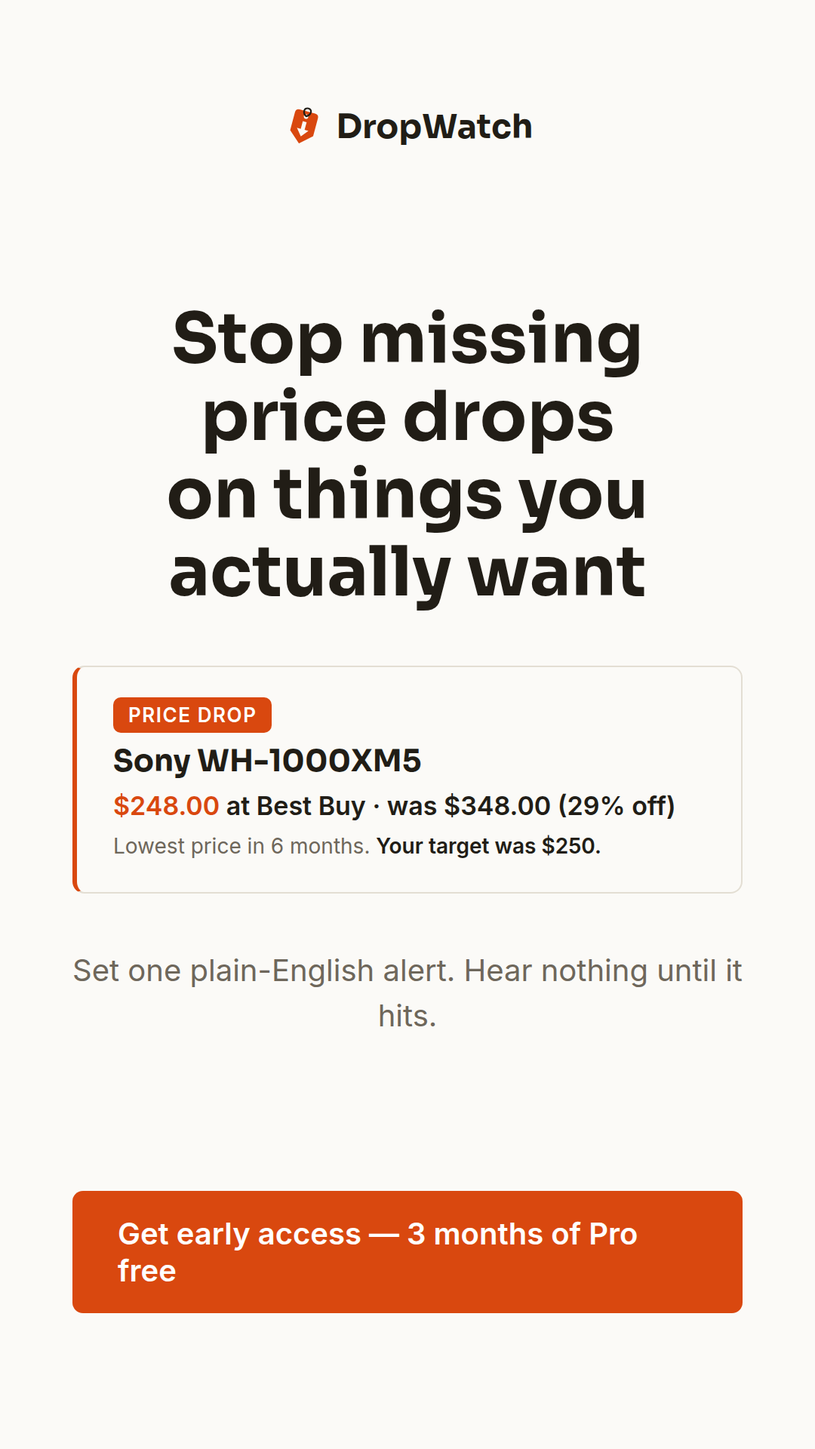
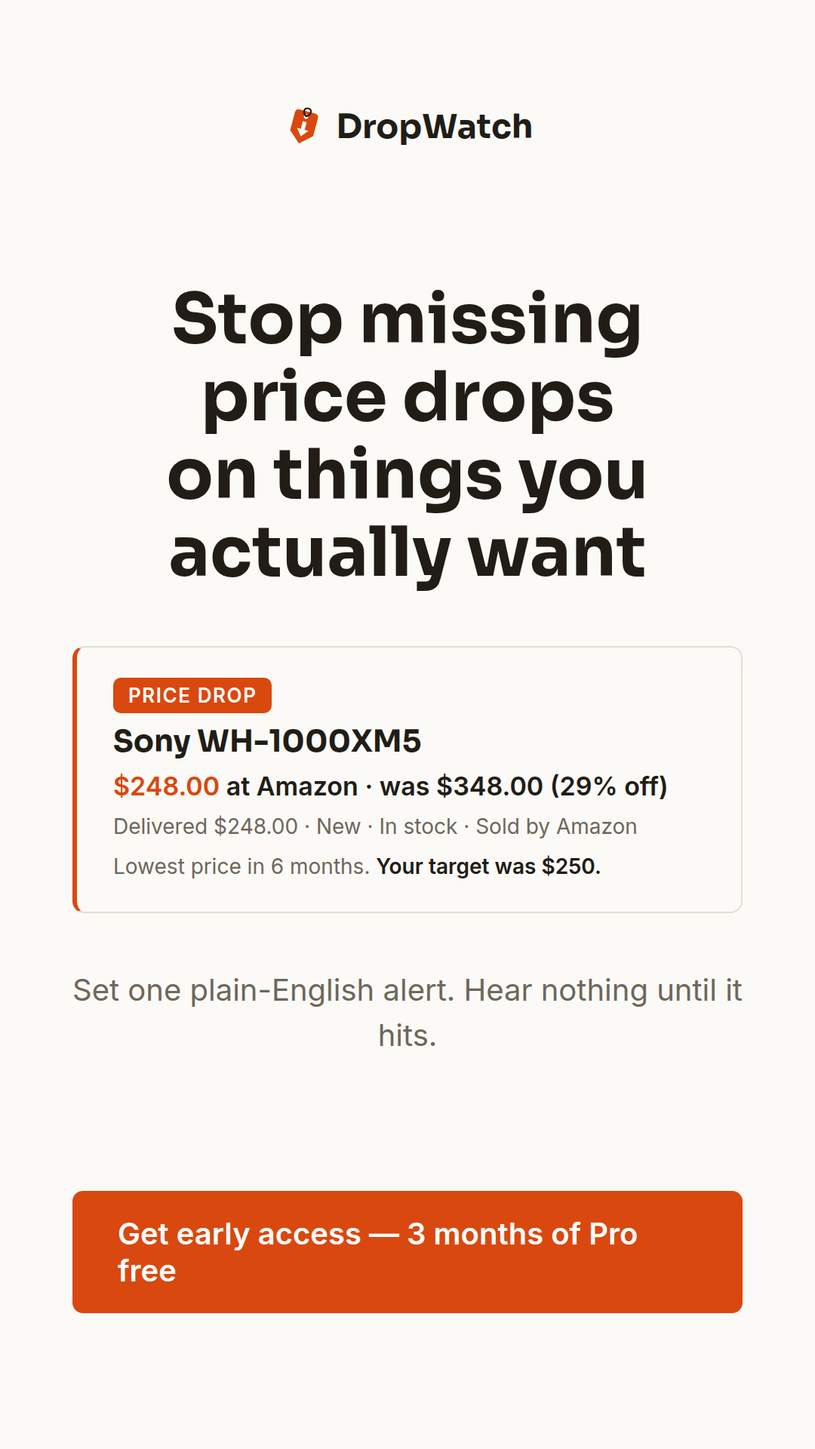
Rewrite the landing page for the ratified pivot; spend the one copy iteration
Four founder decisions, taken 2026-09-01 and recorded in decisions.md:

1. The trust-evidence pivot is ratified. 00-brief.md gains a dated addendum
   that supersedes its conflicting lines rather than rewriting the original.
2. Basic-tier clicks keep counting toward the payment-intent threshold as it
   was written.
3. The landing page takes Path B: honesty corrections plus the pivoted promise.
4. Pro Plus is $99/year.

What the page now says, and why each change is true of the built app:

- Hero and meta description: "one message when it really drops: delivered
  price, condition, in stock" replaces "the second it drops". The app checks
  every six hours; "instant" was false.
- Benefits: "One alert, every supported store" names Amazon, eBay and Google
  Shopping's merchants, which is what priceSources.ts searches. "Know if it's
  really a deal" now describes the trust evidence rather than price history
  alone.
- How it works: no store menus (the user never picks a store), "every few
  hours", and an alert that carries delivered cost, seller and condition.
- Demo: the typed sentence drops "at Amazon or Best Buy" (Best Buy is not a
  source; the user does not pick stores). The alert card gains an evidence
  line - delivered price, New, In stock, Sold by Amazon, Seen 20 min ago -
  which is the pivot in one line, and the deal read distinguishes a retailer
  sale from a marketplace refurb.
- Tiers: Basic loses "1 store per alert" (there is no store selection); Pro
[…]

diff --git a/src/App.tsx b/src/App.tsx
@@ -22,13 +22,13 @@ const BENEFITS = [
   },
   {
     icon: <StorefrontsIcon />,
-    title: "Watch every store at once.",
-    body: "One alert covers Amazon, Best Buy, and more — no tab-hopping.",
+    title: "One alert, every supported store.",
+    body: "DropWatch searches Amazon, eBay, and the merchants on Google Shopping for you — no picking stores, no tab-hopping.",
   },
   {
     icon: <DipChartIcon />,
     title: "Know if it's really a deal.",
-    body: "Price history shows whether $248 is a genuine low or a fake markdown.",
+    body: "Every alert shows the delivered price, the condition, whether it's in stock, and how the price compares to its history — so a used unit with $40 shipping never reaches you as a \"deal.\"",
   },
   {
     icon: <TargetArrowIcon />,
@@ -53,7 +53,11 @@ const TIERS = [
     price: "Free",
     priceNote: "",
     best: "Best for: trying DropWatch on the one thing you're waiting on.",
-    features: ["3 active alerts", "1 store per alert", "Daily price checks", "Email alerts"],
+    features: [
+      "3 active alerts",
+      "Daily checks across all supported stores",
+      "Email alerts with condition and stock status",
+    ],
     recommended: false,
   },
   {
@@ -63,22 +67,22 @@ const TIERS = [
     best: "Best for: anyone with a real wishlist across more than one store.",
     features: [
       "Unlimited alerts",
-      "All supported stores per alert",
-      "Instant alerts the moment a price crosses your line",
+      "Checks every 6 hours, not once a day",
+      "Delivered-price alerts — shipping and tax counted, never guessed",
       "Full price history and deal-quality reads",
     ],
     recommended: true,
   },
   {
     name: "Pro Plus",
-    price: "$129",
+    price: "$99",
     priceNote: "/year",
-    best: "Best for: heavy shoppers who want first access and fast answers.",
+    best: "Best for: anyone who's already sure — two months free.",
     features: [
       "Everything in Pro",
+      "Two months free vs. paying monthly",
       "Priority support",
       "Early access to new stores and features",
-      "Higher alert-check frequency",
     ],
     recommended: false,
   },
@@ -91,7 +95,7 @@ const FAQS = [
   },
   {
     q: "Why would I pay when Honey and CamelCamelCamel are free?",
-    a: "Free tools make money from ads and affiliate volume, so they're built to show you more deals, not fewer. DropWatch is built for the opposite: one alert for one exact thing. You're paying for silence and precision.",
+    a: "Free tools make money from ads and affiliate volume, so they're built to show you more deals, not fewer. DropWatch is built for the opposite: one alert for one exact thing — and it checks the deal is real (new, in stock, delivered price) before it tells you. You're paying for silence and precision.",
   },
   {
     q: "Do I have to connect my Amazon or store accounts?",
@@ -99,11 +103,19 @@ const FAQS = [
   },
   {
     q: "How long does setup take?",
-    a: 'About as long as sending a text. Type "Patagonia Nano Puff, 40% off, any store" and you\'re done. Most people set up their first three alerts in under two minutes.',
+    a: 'About as long as sending a text. Type "Patagonia Nano Puff, 40% off, new" and you\'re done — DropWatch finds the stores. Most people set up their first three alerts in under two minutes.',
   },
   {
     q: "Which stores will it cover?",
-    a: "At launch: Amazon and Best Buy. Founding users vote on what comes next — Target, Walmart, and more are on the ballot, and early-access signups decide the order.",
+    a: "At launch: Amazon, eBay, and the merchants listed on Google Shopping — DropWatch searches them all for you, so you never pick a store. Founding users vote on which dedicated store integrations come next; Best Buy, Target, and Walmart are on the ballot, and early-access signups decide the order.",
+  },
+  {
+    q: "How do I know the deal is real?",
+    a: "Every alert shows what DropWatch actually found: the delivered price with shipping and tax when the store publishes them (and \"unknown\" when it doesn't — never a silent $0), whether it's new or used, whether it's in stock, who's selling it, and when the price was last seen. Used, refurbished, and open-box listings are left out unless you ask for them.",
+  },
+  {
+    q: "How fast are alerts?",
+    a: "DropWatch checks every supported store every six hours (once a day on the free plan) and emails you the same hour a price crosses your line. It's built for the drops that last days, not the flash sales that last minutes — those are the ones that make you check your phone all day.",
   },
   {
     q: "Will you spam me?",
@@ -186,8 +198,9 @@ export default function App() {
               </Reveal>
               <Reveal delay={60}>
                 <p className="hero__sub">
-                  For busy people who shop online but can't babysit prices — set one alert, get
-                  pinged the second it drops.
+                  For busy people who shop online but can't babysit prices — set one alert in
+                  plain English and get one message when it really drops: delivered price,
+                  condition, in stock. No noise.
                 </p>
               </Reveal>
               <Reveal delay={120}>
@@ -195,8 +208,8 @@ export default function App() {
               </Reveal>
               <Reveal delay={180}>
                 <p className="hero__credibility small">
-                  The deals worth waiting for usually last hours, not days — and they drop while
-                  you're at work.
+                  Most "deals" aren't: a used unit, surprise shipping, out of stock by the time
+                  you click. DropWatch checks before it tells you.
                 </p>
               </Reveal>
             </div>
@@ -217,6 +230,7 @@ export default function App() {
                 "Your wishlist is a graveyard. You saved that laptop three weeks ago, the price dropped 30% on a Tuesday, and it was back up by Thursday.",
                 "Deal apps and coupon extensions bury the one thing you want under two hundred things you don't.",
                 "Checking prices across Amazon, Target, and Best Buy is a part-time job you didn't apply for.",
+                "And when a \"deal\" finally shows up, it's a refurbished unit from a third-party seller, plus $40 shipping.",
                 "So you either overpay out of impatience, or wait forever and miss the window anyway.",
               ].map((line, i) => (
                 <Reveal as="li" key={i} delay={i * 60}>
@@ -237,15 +251,15 @@ export default function App() {
               {[
                 {
                   title: "Say what you want, in plain English.",
-                  body: 'Type "AirPods Pro under $200" and DropWatch turns it into a tracked alert — product, stores, and target price, no forms to fill.',
+                  body: 'Type "AirPods Pro under $200" and DropWatch turns it into a tracked alert — product and target price, no forms, no store menus.',
                 },
                 {
                   title: "DropWatch watches so you don't.",
-                  body: 'Your alerts sit quietly across the stores you picked. No feed, no digest, no daily "hot deals" email.',
+                  body: 'DropWatch checks every supported store for you, every few hours. No feed, no digest, no daily "hot deals" email.',
                 },
                 {
                   title: "Get one alert when it actually drops.",
-                  body: "The moment your price hits, you get a single notification with the price, the store, and a read on whether it's a real deal.",
+                  body: "When your price hits, you get one email with the price, the delivered cost, the seller and condition, and a read on whether it's a real deal — or a used unit with $40 shipping.",
                 },
               ].map((step, i) => (
                 <Reveal className="step" key={i} delay={i * 60}>
@@ -272,8 +286,7 @@ export default function App() {
               <Reveal className="demo__card demo__card--you">
                 <div className="demo__label">You type this once</div>
                 <p className="demo__bubble">
-                  Sony WH-1000XM5 headphones — tell me if they drop under $250 at Amazon or Best
-                  Buy.
+                  Sony WH-1000XM5 headphones — tell me when they're under $250, new, delivered.
                 </p>
               </Reveal>
               <Reveal className="demo__card demo__card--alert" delay={80}>
@@ -281,11 +294,16 @@ export default function App() {
                 <div className="notif">
                   <div className="notif__title">PRICE DROP — Sony WH-1000XM5</div>
                   <p className="notif__price">
-                    <strong>$248.00</strong> at Best Buy · was $348.00 (29% off)
+                    <strong>$248.00</strong> at Amazon · was $348.00 (29% off)
+                  </p>
+                  <p className="notif__evidence small">
+                    Delivered $248.00 (free shipping, tax est.) · New · In stock · Sold by Amazon ·
+                    Seen 20 min ago
                   </p>
                   <p>Lowest price in 6 months. Your target was $250.</p>
                   <p className="notif__read">
-                    Deal read: Below its Black Friday price. This is the buy window.
+                    Deal read: Below its Black Friday price, new from the retailer itself — not a
+                    refurb from a marketplace seller. This is the buy window.
                   </p>
                   <div className="notif__actions" aria-hidden="true">
                     <span className="btn btn--primary">View deal</span>

diff --git a/index.html b/index.html
@@ -6,7 +6,7 @@
     <title>DropWatch — Stop Missing Price Drops on Things You Want</title>
     <meta
       name="description"
-      content="For busy people who shop online but can't babysit prices — set one plain-English alert and get pinged the second it drops. Early access + 3 months of Pro free."
+      content="For busy people who shop online but can't babysit prices — set one plain-English alert and get one message when it really drops: delivered price, condition, in stock. Early access + 3 months of Pro free."
     />
     <link rel="icon" type="image/svg+xml" href="/logo.svg" />
     <meta property="og:type" content="website" />
@@ -14,7 +14,7 @@
     <meta property="og:title" content="DropWatch — Stop Missing Price Drops on Things You Want" />
     <meta
       property="og:description"
-      content="For busy people who shop online but can't babysit prices — set one plain-English alert and get pinged the second it drops. Early access + 3 months of Pro free."
+      content="For busy people who shop online but can't babysit prices — set one plain-English alert and get one message when it really drops: delivered price, condition, in stock. Early access + 3 months of Pro free."
     />
     <link rel="canonical" href="https://www.usedropwatch.com/" />
     <meta property="og:url" content="https://www.usedropwatch.com/" />
@@ -23,7 +23,7 @@
     <meta name="twitter:title" content="DropWatch — Stop Missing Price Drops on Things You Want" />
     <meta
       name="twitter:description"
-      content="For busy people who shop online but can't babysit prices — set one plain-English alert and get pinged the second it drops. Early access + 3 months of Pro free."
+      content="For busy people who shop online but can't babysit prices — set one plain-English alert and get one message when it really drops: delivered price, condition, in stock. Early access + 3 months of Pro free."
     />
     <meta name="twitter:image" content="https://www.usedropwatch.com/og.png" />
     <link rel="preconnect" href="https://fonts.googleapis.com" />

diff --git a/marketing/ads/src/ad-a-story.html b/marketing/ads/src/ad-a-story.html
@@ -22,7 +22,8 @@
     <div class="notif">
       <div class="notif__badge">PRICE DROP</div>
       <div class="notif__title">Sony WH-1000XM5</div>
-      <div class="notif__price"><strong>$248.00</strong> at Best Buy · was $348.00 (29% off)</div>
+      <div class="notif__price"><strong>$248.00</strong> at Amazon · was $348.00 (29% off)</div>
+      <div class="notif__meta">Delivered $248.00 · New · In stock · Sold by Amazon</div>
       <div class="notif__meta">Lowest price in 6 months. <em>Your target was $250.</em></div>
     </div>
     <p>Set one plain-English alert. Hear nothing until it hits.</p>

diff --git a/marketing/ads/src/ad-a-feed.html b/marketing/ads/src/ad-a-feed.html
@@ -19,7 +19,8 @@
     <div class="notif">
       <div class="notif__badge">PRICE DROP</div>
       <div class="notif__title">Sony WH-1000XM5</div>
-      <div class="notif__price"><strong>$248.00</strong> at Best Buy · was $348.00 (29% off)</div>
+      <div class="notif__price"><strong>$248.00</strong> at Amazon · was $348.00 (29% off)</div>
+      <div class="notif__meta">Delivered $248.00 · New · In stock · Sold by Amazon</div>
       <div class="notif__meta">Lowest price in 6 months. <em>Your target was $250.</em></div>
     </div>
   </div>

diff --git a/marketing/ads/src/cover-fb.html b/marketing/ads/src/cover-fb.html
@@ -27,7 +27,8 @@
   <div class="notif">
     <div class="notif__badge">PRICE DROP</div>
     <div class="notif__title">Sony WH-1000XM5</div>
-    <div class="notif__price"><strong>$248.00</strong> at Best Buy · was $348.00</div>
+    <div class="notif__price"><strong>$248.00</strong> at Amazon · was $348.00</div>
+    <div class="notif__meta">Delivered · New · In stock</div>
     <div class="notif__meta">Your target was $250.</div>
   </div>
 </body>

diff --git a/src/styles.css b/src/styles.css
@@ -413,6 +413,10 @@ li {
   font-weight: 600;
 }
 
+.notif__evidence {
+  color: var(--text-muted);
+}
+
 .notif__read {
   color: var(--text-muted);
 }

diff --git a/docs/00-status.md b/docs/00-status.md
@@ -35,14 +35,14 @@
 
 **Decide (each is a founder call; the first is measurement, the rest spend the one copy iteration):**
 
-- [ ] **Exclude `tier = 'Basic'` from the payment-intent numerator?** The "≥20% of signups via a
-      pricing-tier button" threshold reads as willingness to pay, but the Free plan has an
-      identical button. Recommended: yes. Decide before traffic, not after.
-- [ ] **Pro Plus pricing.** $9.99/mo × 12 = $119.88; Pro Plus is $129/yr. The upgrade costs more
-      than the plan it sits above. Change, or leave and accept the read?
-- [ ] **"Watch every store at once"** vs. two stores at launch. Soften, or leave?
-- [ ] **Ratify or reject the app's pivot** (see the 2026-09-01 pivot entry in the log) and decide
-      whether the landing page should validate the pivoted promise or the original one.
+- [x] ~~Exclude `tier = 'Basic'` from the payment-intent numerator?~~ **Decided 2026-09-01: no —
+      count all tier clicks, as the threshold was written.** Pro + Pro Plus-only share is reported
+      alongside at the read as context, not as the gate.
+- [x] ~~Pro Plus pricing.~~ **Decided 2026-09-01: $99/year.** Shipped in the copy iteration.
+- [x] ~~"Watch every store at once" vs. two stores at launch.~~ **Decided 2026-09-01: Path B** —
+      honesty corrections plus the trust-evidence promise. The one copy iteration is spent.
+- [x] ~~Ratify or reject the app's pivot.~~ **Ratified 2026-09-01.** Recorded in `decisions.md`;
+      `00-brief.md` carries a dated addendum. The landing page now validates the pivoted promise.
 
 **Then:** launch ads and post the share-kit links. ~200 more visitors needed by 2026-09-12; zero
 channels are running.
@@ -51,7 +51,7 @@ channels are running.
 
 | Gate | Verdict | Date | Notes |
 |---|---|---|---|
-| Validation | PENDING PROBE | 2026-09-01 | Landing page live (Vercel preview; production on merge). Probe = founding-user email capture to Supabase `dropwatch_leads`; denominator + payment-intent via PostHog (pageviews by utm_source, `signup_submitted` by source/tier, `tier_click`). Thresholds below — COMMITTED, founder approved 2026-08-22. **As of 2026-09-01 the probe is starved:** 102 unique visitors, 0 non-founder signups, 0 tagged pageviews — no channel has run yet. See the 2026-09-01 log entry |
+| Validation | PENDING PROBE | 2026-09-01 | Landing page live (Vercel preview; production on merge). Probe = founding-user email capture to Supabase `dropwatch_leads`; denominator + payment-intent via PostHog (pageviews by utm_source, `signup_submitted` by source/tier, `tier_click`). Thresholds below — COMMITTED, founder approved 2026-08-22. **As of 2026-09-01 the probe is starved:** 102 unique visitors, 0 non-founder signups, 0 tagged pageviews — no channel has run yet. See the 2026-09-01 log entry. **Copy iteration spent 2026-09-01 (Path B, pivoted promise)** — see Waivers |
 | PRD | — | | brief covers scope; formalize with `/prd` post-GO. **Now an input gap:** the architecture brief had to be written against `00-brief.md` because `docs/product/02-prd.md` does not exist |
 | Positioning | — | | brief covers positioning; formalize post-GO |
 | Architecture | DONE | 2026-08-29 | `docs/engineering/01-architecture.md`. Verdict: keep the app as the MVP, do not rebuild (ADR-1), conditional on four cuts — Supabase Postgres + RLS (ADR-2), Supabase Auth (ADR-3), Anthropic direct (ADR-4), delete dead vendor surface (ADR-7). Hosting: Vercel serverless (ADR-5). MVP ships manual price logging only; PriceAPI imports built but disabled (ADR-6). **Written against `00-brief.md` — no PRD exists.** Brief only; nothing implemented, and nothing should be until the validation gate resolves |
@@ -97,6 +97,15 @@ channels are running.
 
 <!-- Every skipped gate or accepted risk gets a dated line here. Nothing is skipped silently. -->
 
+- 2026-09-01 — **The thresholds' one copy iteration is spent (founder-directed, Path B).** Spent at
+  102 visitors / 0 non-founder signups — before any read, so it is not the "between" iteration the
+  thresholds describe, but it is the same allowance and it is now used. What changed on the page:
+  honesty corrections for claims the pivoted app breaks (user-picked stores, Best Buy at launch,
+  "instant" alerts, tier features that do not exist) and the trust-evidence promise added to the
+  hero, how-it-works, demo alert, benefits, and two new FAQs; Pro Plus $129 → $99/year. Tier names
+  are unchanged so `tier_click` continuity holds. Ad copy in `marketing/ads/ads-kit.md` and the
+  creatives updated to match. **A second iteration requires a recorded waiver here.**
+
 - 2026-09-01 — **Founder-directed: ADR-2/3/4/5 build work starts ahead of the Validation gate.**
   The gate is still PENDING PROBE and `docs/engineering/01-architecture.md` says nothing should be
   implemented until it resolves, so this is a real waiver, not a technicality. Founder's call, made
@@ -127,6 +136,17 @@ channels are running.
 ## Log
 
 <!-- One dated line per meaningful state change, newest first. -->
+
+- 2026-09-01 — **Pivot ratified; landing page rewritten to validate it; copy iteration spent.**
+  Founder decisions, all four in one sitting: (1) ratify the trust-evidence pivot — recorded in
+  `decisions.md`, addendum on `00-brief.md`; (2) Basic-tier clicks keep counting toward payment
+  intent as the threshold was written; (3) landing page takes Path B — honesty corrections plus the
+  pivoted promise; (4) Pro Plus $99/year. The page now says what the app does: automatic discovery
+  across Amazon, eBay and Google Shopping (no store picking), six-hour checks framed honestly,
+  every alert carrying delivered price, condition, stock, seller and freshness, and a demo alert
+  that shows exactly that evidence line. Meta description, ad copy and the ad creatives updated to
+  match so the destination and the ad tell the same story. Verified: `tsc -b` clean, `vite build`
+  clean, new copy present in `dist/index.html`.
 
 - 2026-09-01 — **The app's value proposition pivoted on Manus; the landing page still validates
   the original brief, and the pivot is recorded nowhere in this workflow.** Founder flagged it;

diff --git a/docs/knowledge/decisions.md b/docs/knowledge/decisions.md
@@ -15,3 +15,7 @@
 | 2026-08-29 | **ADR-5.** Host the app on Vercel as serverless functions, not a container host | Consolidates on a platform already paid for; per-PR previews match `stack.md`; Vercel Cron replaces the Manus heartbeat; tRPC has a Vercel adapter and the SPA is already static | Something needs a genuinely long-running process. Fallback is Railway/Render (~$5/mo), which is also the answer if the app must run this week |
 | 2026-08-29 | **ADR-6.** MVP launches with manual price logging; automated PriceAPI imports stay built but disabled | `00-brief.md` lists automated polling under Not in the MVP, and PriceAPI cost scales as watches × sources with no ceiling. Disabling rather than deleting preserves the work at zero cost | Users will not log prices by hand — the most likely way the architecture brief is wrong. Watch second-entry rate in week one |
 | 2026-08-29 | **ADR-7.** Delete dead vendor surface (`dataApi`, `imageGeneration`, `map`, `voiceTranscription`, `ComponentShowcase`); keep the historical planning files | 827 lines plus a dead page with zero importers; dead code calling vendor APIs is a maintenance and security liability. `repo-sync-plan.md` and `readiness-roadmap.md` record why the migration happened | A deleted module is needed again — git history has it |
+| 2026-09-01 | **Pivot ratified.** DropWatch's differentiator is the trust-evidence alert: delivered cost (shipping + tax when published, explicitly unknown otherwise), condition (new by default; used/refurbished/open-box opt-in), availability, freshness (stale after 12h), seller, and a confidence grade — with automatic retailer discovery over Google Shopping, Amazon and eBay on a six-hour cadence, no store selection by the user | Built and validated on Manus (`app/readiness-roadmap.md`, `app/server/trustLayer.ts`); the roadmap's own words: "fewer, clearer alerts with enough evidence to decide whether the offer is worth acting on." The acquisition hook (one quiet, exact alert) is unchanged; what changed is what an alert must contain to be trusted. Founder ratified 2026-09-01; `00-brief.md` carries a dated addendum that supersedes its conflicting lines | The probe returns KILL or PIVOT; or the pilot gate in `app/readiness-roadmap.md` fails (fewer than 4 of 5 pilot users can explain item-price vs. delivered-cost alerts) |
+| 2026-09-01 | Basic (Free) tier clicks **count** toward the ≥20% payment-intent threshold, as the threshold was written | Founder decision. Redefining the metric mid-probe is its own kind of after-the-fact rationalisation; the committed wording stands. Accepted as a softer read | At the read, report the Pro + Pro Plus-only share alongside as a secondary number. It is context, not the gate |
+| 2026-09-01 | **The one copy iteration is spent** (Path B): honesty corrections for claims the pivoted product breaks (store choice, Best Buy, "instant", tier features that do not exist) plus the trust-evidence promise added to hero, how-it-works, demo, benefits, and two new FAQs | Founder chose to test the pivoted promise rather than the original. Spent at 102 visitors / 0 non-founder signups, i.e. before any read, so the "between" iteration allowance is now used | Never, without a recorded waiver in `docs/00-status.md`. A second iteration is a waiver, not a judgment call |
+| 2026-09-01 | Pro Plus is **$99/year** (was $129/year on the page; $12.99/month in the brief) | $129 exceeded twelve months of Pro ($119.88), so the upgrade cost more than the plan beneath it. $99 reads as roughly two months free, which is what an annual tier is for | `/positioning` post-GO, when pricing is formalised against the tier-click split |

diff --git a/docs/product/00-brief.md b/docs/product/00-brief.md
@@ -4,6 +4,31 @@
 > below is made; the landing page implements it verbatim. **If anything in this repo conflicts
 > with this brief, the brief wins.** [FACT: founder-supplied; decisions not re-derived here.]
 
+## Pivot addendum — 2026-09-01 (supersedes conflicting lines below)
+
+> [FACT: founder ratified 2026-09-01; recorded in `docs/knowledge/decisions.md`.] While building the
+> app on Manus the founder pivoted its value proposition. The brief below is kept verbatim as the
+> original; where this addendum and the body disagree, **the addendum wins.**
+
+- **Differentiator:** the trust-evidence alert. Every alert states the delivered price (shipping and
+  tax when the store publishes them; "unknown" otherwise, never a silent $0), the condition (new by
+  default; used, refurbished and open-box excluded unless the user opts in), availability,
+  freshness (an offer older than 12 hours is stale and suppressed), the seller, and a confidence
+  grade. In the app roadmap's words: *fewer, clearer alerts with enough evidence to decide whether
+  the offer is worth acting on.* The job moved from "don't miss the drop" to "don't get fooled by a
+  deal that isn't real." The acquisition hook — one quiet, exact, plain-English alert — is unchanged.
+- **Stores:** automatic discovery across Google Shopping's merchants, Amazon and eBay via PriceAPI.
+  The user never picks a store. Best Buy is *not* a launch source (supersedes "Amazon and Best Buy at
+  launch"); it joins Target and Walmart on the founding-user ballot for dedicated integrations.
+- **Cadence:** every six hours, not instant (supersedes "the second it drops"). The landing page
+  positions this honestly: built for drops that last days, not flash sales that last minutes.
+- **Alert basis:** item price, estimated delivered total, or verified delivered total, chosen per
+  watch; an optional destination ZIP is context only until the provider supplies shipping and tax.
+- **Pricing on the page:** Pro Plus is $99/year (supersedes both $129/year and $12.99/month). Tiers
+  are a willingness-to-pay hypothesis; the app has no tiering built.
+- **Still true:** Plain-English Alert Builder as the hero, the target user, the positioning against
+  noise, the demo-moment structure, the design system and voice.
+
 ## Product context
 
 DropWatch is a deal-alert app for busy professionals (25–40) who shop online constantly but

diff --git a/marketing/ads/ads-kit.md b/marketing/ads/ads-kit.md
@@ -18,9 +18,10 @@ separately, and paid must not blend with organic).
   "One plain-English price alert. Zero noise. Get pinged the second your price hits — never a
   deal blast. Early access + 3 months of Pro free ↓"
 - **About (FB):**
-  "DropWatch watches one exact thing at one exact price — 'Sony XM5s under $250, Amazon or Best
-  Buy' — and only speaks when it drops. No feed, no coupon clutter, no daily 'hot deals' email.
-  Launching soon; founding users get early access and 3 months of Pro free."
+  "DropWatch watches one exact thing at one exact price — 'Sony XM5s under $250, new, delivered'
+  — and only speaks when it really drops: delivered price, condition, in stock. No feed, no
+  coupon clutter, no daily 'hot deals' email. Launching soon; founding users get early access
+  and 3 months of Pro free."
 
 ## Ad copy (mix & match with any creative)
 
@@ -29,9 +30,10 @@ chars; description ≤30 chars. CTA button: **Sign up**.
 
 **Primary text**
 1. "The price dropped on a Tuesday. It was back up by Thursday. You found out Friday. DropWatch
-   sends one alert the second your price hits — and nothing else, ever." (A/C)
-2. "Type 'AirPods Pro under $200' and you're done. One alert when it drops, across Amazon,
-   Target, and Best Buy. No deal blasts, no coupon clutter." (B)
+   sends one alert when your price hits — and nothing else, ever." (A/C)
+2. "Type 'AirPods Pro under $200' and you're done. One alert when it drops — new, in stock,
+   delivered price — across Amazon, eBay, and Google Shopping. No deal blasts, no coupon
+   clutter." (B)
 3. "Free deal tools earn on volume, so they bury the one thing you want under 200 you don't.
    DropWatch is the opposite: one exact thing, one exact price, one alert." (C)
 
